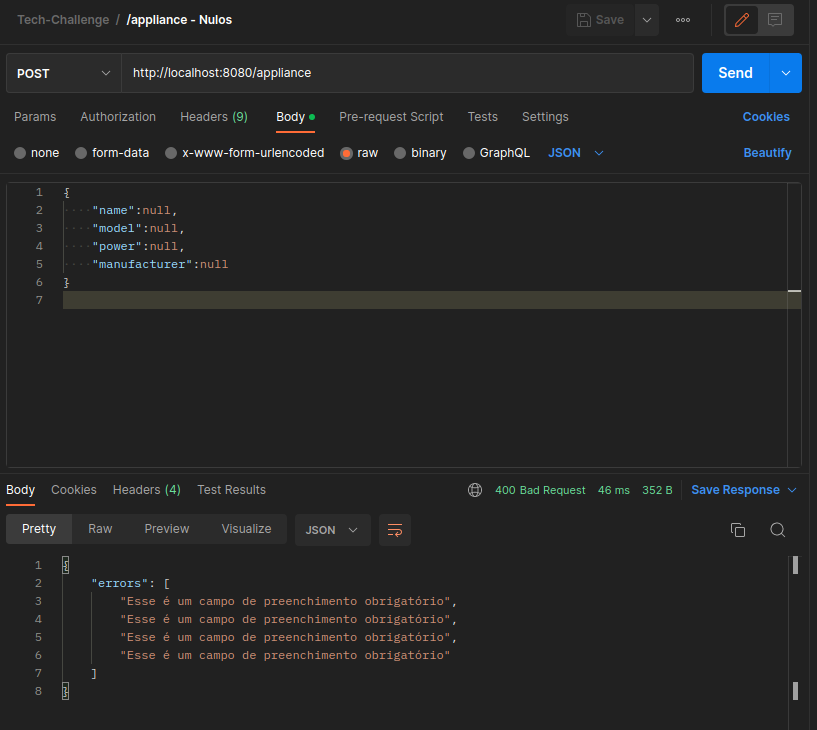
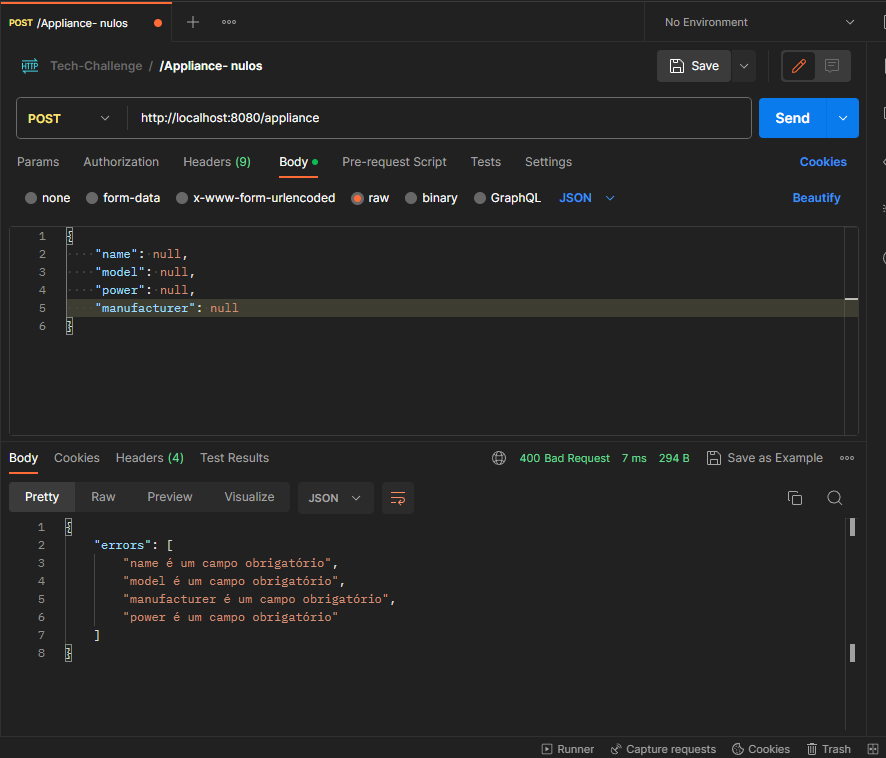
refactor appliance

diff --git a/src/main/java/br/com/postech30/challenge/dto/ApplianceDTO.java b/src/main/java/br/com/postech30/challenge/dto/ApplianceDTO.java
@@ -17,17 +17,17 @@ public class ApplianceDTO {
     @Getter
     private int id;
     @JsonProperty
-    @NotBlank(message = "Esse é um campo de preenchimento obrigatório")
+    @NotBlank(message = "name é um campo obrigatório")
     private String name;
     @JsonProperty
-    @NotBlank(message = "Esse é um campo de preenchimento obrigatório")
+    @NotBlank(message = "model é um campo obrigatório")
     private String model;
     @JsonProperty
-    @NotBlank(message = "Esse é um campo de preenchimento obrigatório")
+    @NotBlank(message = "power é um campo obrigatório")
     @NumberFormat
     private String power;
     @JsonProperty
-    @NotBlank(message = "Esse é um campo de preenchimento obrigatório")
+    @NotBlank(message = "manufacturer é um campo obrigatório")
     private String manufacturer;
 
     public ApplianceDTO(Appliance entity) {

diff --git a/src/main/java/br/com/postech30/challenge/controller/ApplianceController.java b/src/main/java/br/com/postech30/challenge/controller/ApplianceController.java
@@ -33,13 +33,6 @@ public class ApplianceController {
     @PostMapping()
     public ResponseEntity addAppliance(@RequestBody @Valid ApplianceDTO appliance){
 
-        Set<ConstraintViolation<ApplianceDTO>> violacoes =
-                Validation.buildDefaultValidatorFactory().getValidator().validate(appliance);
-        Map<Path, String> violacoesToMap = violacoes.stream().collect(Collectors.toMap(violacao -> violacao.getPropertyPath(), violacao -> violacao.getMessage()));
-
-        if (!violacoesToMap.isEmpty()) {
-            return ResponseEntity.badRequest().body(violacoesToMap);
-        }
         service.saveAppliance(appliance);
         return ResponseEntity.status(HttpStatus.CREATED).body("Eletrodoméstico cadastrado com sucesso!");
     }

diff --git a/README.md b/README.md
@@ -1,9 +1,11 @@
 # tech-challenge
 ### Repositório para o Tech Challenge - Grupo 30
 
-<<<<<<< HEAD
-# Dependentes [/dependent]
-=======
+
++ Utilizamos Java como linguagem principal, JPA para persistência dos dados, Lombok para reduzir a verbosidade do código, H2 como banco de dados em memória e Spring Starter Validation para validar os dados de entrada. Essas tecnologias e ferramentas contribuíram para o desenvolvimento eficiente e robusto do sistema, atingindo os objetivos propostos no desafio.
+
+
+
 
 #### ---- INSTÂNCIA DE ENTIDADES PARA BD EM MEMÓRIA ----
 
@@ -13,22 +15,9 @@
 
 
 #### ---- DEPENDENTES ----
->>>>>>> feature/reviewAddress
 
 Pessoas relacionadas ao nosso cliente, com algum nível de parentesco.
 
-<<<<<<< HEAD
-### Dependente [POST]
-
-+ Atributos (object)
-    
-    + name: nome do parente (string, required).
-    + dateOfBirth: data de nascimento do parente - dd/MM/yyyy (LocalDate, required). 
-    + gender: gênero do parente (string, required).
-    + parentage: grau de parentesco do cliente (string, required).
-
-+ Request - 200 (application/json)
-=======
 - Json da classe de Dependentes para o Postman com todos os campos preenchidos. 
 ```json
 {
@@ -46,112 +35,9 @@ Pessoas relacionadas ao nosso cliente, com algum nível de parentesco.
 
 
 - Json da classe de Dependentes para o Postman com todos os campos nulos. 
->>>>>>> feature/reviewAddress
 
     + Body
 
-<<<<<<< HEAD
-            {
-                "name": "Victor",
-                "dateOfBirth": "01/01/2023",
-                "gender": "Masculino",
-                "parentage": "Filho"
-            }
-+ Response - 200 (application/json)
-
-    + Body
-
-            {
-                	"id": 1,
-				"name": "Victor",
-                	"dateOfBirth": "2023-01-01",
-                	"gender": "Masculino",
-                	"parentage": "Filho"
-            }
-
-
-+ Request - 400 - sem nome (application/json)
-
-    + Body
-
-            {
-                "name": "",
-                "dateOfBirth": "01/01/2023",
-                "gender": "Masculino",
-                "parentage": "Filho"
-            }
-+ Response - 400 (application/json)
-
-    + Body
-
-            {
-                	"errors": [
-				"O nome é obrigatório"
-      			]
-            }
-
-+ Request - 400 - sem data de nascimento (application/json)
-
-    + Body
-
-            {
-                "name": "Victor",
-                "dateOfBirth": "",
-                "gender": "Masculino",
-                "parentage": "Filho"
-            }
-+ Response - 400 (application/json)
-
-    + Body
-
-            {
-                	"errors": [
-				"A data de nascimento é obrigatória. Padrão dd/MM/yyyy"
-      			]
-            }
-
-
-+ Request - 400 - sem gênero (application/json)
-
-    + Body
-
-            {
-                "name": "Victor",
-                "dateOfBirth": "01/01/2023",
-                "gender": "",
-                "parentage": "Filho"
-            }
-+ Response - 400 (application/json)
-
-    + Body
-
-            {
-                	"errors": [
-				"O gênero é obrigatório."
-      			]
-            }
-
-
-+ Request - 400 - sem parentesco (application/json)
-
-    + Body
-
-            {
-                "name": "Victor",
-                "dateOfBirth": "01/01/2023",
-                "gender": "Masculino",
-                "parentage": ""
-            }
-+ Response - 400 (application/json)
-
-    + Body
-
-            {
-                	"errors": [
-				"O parentesco é obrigatório."
-      			]
-            }
-=======
 - Json da classe de Dependentes para o Postman com todos os campos vazios. 
 
 ![image](https://github.com/rcsim/tech-challenge/assets/71778151/6fb2c201-9f1f-41d2-8d81-4f59f736c294)
@@ -227,4 +113,3 @@ URL: http://localhost:8080/appliance
 
 
 
->>>>>>> feature/reviewAddress
